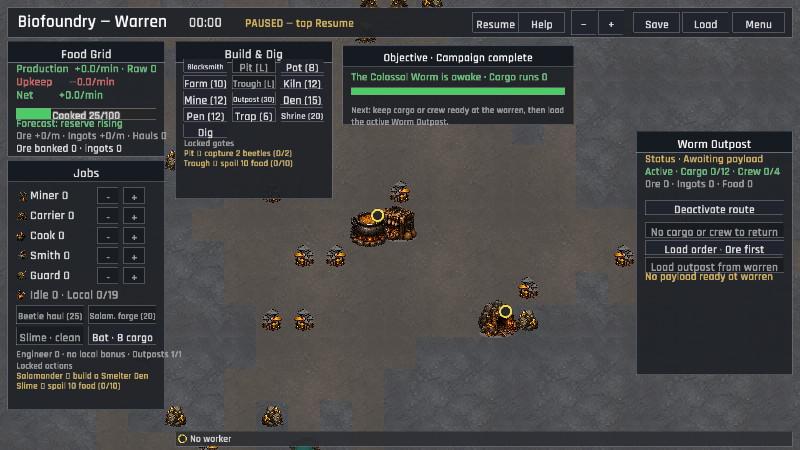
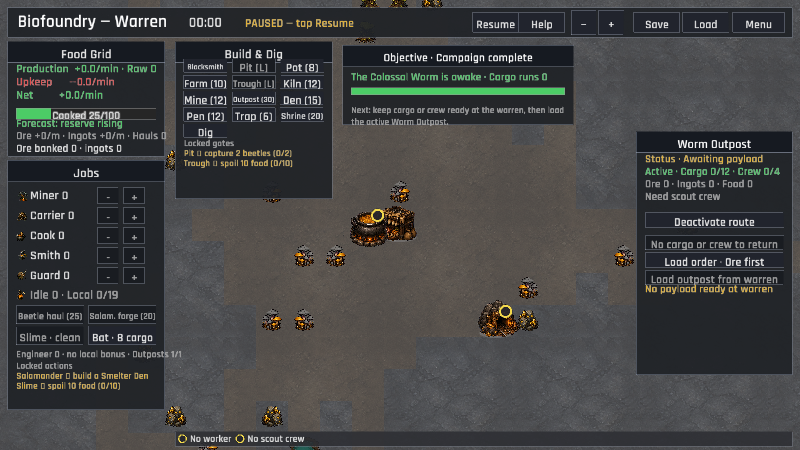
The scouts call for hands at the empty outpost (Outpost crew legibility, post-campaign)
Awakened active Outposts now expose their no-crew state on the map and in the compact status legend. Keep the inspection card's broad payload readiness status while adding a fitting Need scout crew detail, with focused UI coverage and a refreshed empty-route capture.

Changed region(s): [[0.7812, 0.4044, 1.0, 0.6533], [0.2812, 0.9644, 0.375, 0.9956]]

diff --git a/src/ui/legibility.rs b/src/ui/legibility.rs
@@ -50,6 +50,8 @@ pub enum BuildingStatus {
     AwaitingHaul,
     /// A remote route that is turned off and needs activation before use.
     RouteInactive,
+    /// An awakened remote route with no crew stationed to scout.
+    ExpeditionNoCrew,
     /// An awakened remote route whose scouting has been paused by the player.
     ExpeditionPaused,
     /// A staffed remote route that needs more cooked food before scouting.
@@ -76,6 +78,7 @@ impl BuildingStatus {
             BuildingStatus::Exhausted => "Exhausted",
             BuildingStatus::AwaitingHaul => "Awaiting haul",
             BuildingStatus::RouteInactive => "Route inactive",
+            BuildingStatus::ExpeditionNoCrew => "No scout crew",
             BuildingStatus::ExpeditionPaused => "Scouting paused",
             BuildingStatus::ExpeditionNeedsFood => "Scout food low",
             BuildingStatus::ExpeditionHoldFull => "Outpost full",
@@ -192,6 +195,9 @@ pub fn building_status(
                 crate::simulation::outposts::ExpeditionState::Paused => {
                     Some(BuildingStatus::ExpeditionPaused)
                 }
+                crate::simulation::outposts::ExpeditionState::NoCrew => {
+                    Some(BuildingStatus::ExpeditionNoCrew)
+                }
                 crate::simulation::outposts::ExpeditionState::NeedsFood { .. } => {
                     Some(BuildingStatus::ExpeditionNeedsFood)
                 }
@@ -199,7 +205,6 @@ pub fn building_status(
                     Some(BuildingStatus::ExpeditionHoldFull)
                 }
                 crate::simulation::outposts::ExpeditionState::Inactive
-                | crate::simulation::outposts::ExpeditionState::NoCrew
                 | crate::simulation::outposts::ExpeditionState::Scouting { .. } => None,
             }
         }

diff --git a/src/ui/warren.rs b/src/ui/warren.rs
@@ -137,6 +137,7 @@ fn draw_status_badge(pos: TilePos, ts: f32, status: crate::ui::legibility::Build
         St::Exhausted => Color::new(0.60, 0.60, 0.66, 1.0),
         St::AwaitingHaul => Color::new(0.40, 0.80, 0.92, 1.0),
         St::RouteInactive => Color::new(0.70, 0.62, 0.85, 1.0),
+        St::ExpeditionNoCrew => Color::new(0.95, 0.85, 0.30, 1.0),
         St::ExpeditionPaused => Color::new(0.95, 0.72, 0.35, 1.0),
         St::ExpeditionNeedsFood => Color::new(0.95, 0.55, 0.20, 1.0),
         St::ExpeditionHoldFull => Color::new(0.92, 0.32, 0.26, 1.0),
@@ -196,6 +197,9 @@ pub(super) fn draw_status_glyph(
             draw_circle_lines(bx, by, s, 2.0, color);
             draw_line(bx - s, by + s, bx + s, by - s, 2.0, color);
         }
+        // No scout crew: an empty ring, with route-specific wording in the
+        // legend and inspection card.
+        St::ExpeditionNoCrew => draw_circle_lines(bx, by, s, 2.0, color),
         // Expedition paused: two vertical bars, matching the touch control.
         St::ExpeditionPaused => {
             draw_line(bx - s * 0.35, by - s, bx - s * 0.35, by + s, 2.0, color);

diff --git a/src/ui/hud/inspect/tests.rs b/src/ui/hud/inspect/tests.rs
@@ -213,6 +213,28 @@ fn active_empty_outpost_reports_whether_payload_is_ready() {
 }
 
 #[test]
+fn empty_awakened_outpost_explains_the_missing_scout_crew() {
+    let data = GameData::load().expect("embedded game data");
+    let mut session = GameSession::new(&data, 13);
+    let pos = session
+        .world
+        .tiles
+        .iter_with_pos()
+        .find(|(pos, _)| session.can_place_building(*pos))
+        .map(|(pos, _)| pos)
+        .expect("a walkable outpost location");
+    session.buildings.push(Building::new("outpost", pos));
+    session.ensure_outpost(pos);
+    session.outposts[0].active = true;
+    session.worm_awake = true;
+
+    assert_eq!(
+        outpost_expedition_hint(&data, &session.outposts[0]).as_deref(),
+        Some("Need scout crew")
+    );
+}
+
+#[test]
 fn active_loaded_outpost_reports_payload_ready() {
     let data = GameData::load().expect("embedded game data");
     let mut session = GameSession::new(&data, 15);

diff --git a/src/ui/legibility/tests.rs b/src/ui/legibility/tests.rs
@@ -237,6 +237,28 @@ fn paused_outpost_keeps_a_distinct_map_status() {
 }
 
 #[test]
+fn empty_awakened_outpost_exposes_missing_scout_crew_on_the_map() {
+    let (data, mut session) = boot();
+    session.worm_awake = true;
+    let pos = session
+        .world
+        .tiles
+        .iter_with_pos()
+        .find(|(p, t)| t.walkable() && session.can_place_building(*p))
+        .map(|(p, _)| p)
+        .unwrap();
+    session.buildings.push(Building::new("outpost", pos));
+    session.ensure_outpost(pos);
+    session.outposts[0].active = true;
+
+    assert_eq!(
+        building_status(&session, &data, session.building_at(pos).unwrap()),
+        Some(BuildingStatus::ExpeditionNoCrew)
+    );
+    assert_eq!(BuildingStatus::ExpeditionNoCrew.label(), "No scout crew");
+}
+
+#[test]
 fn staffed_outpost_exposes_food_and_hold_blockers_on_the_map() {
     let (data, mut session) = boot();
     session.worm_awake = true;

diff --git a/src/ui/hud/inspect/status.rs b/src/ui/hud/inspect/status.rs
@@ -98,8 +98,8 @@ pub(super) fn outpost_load_hint(
 
 pub(super) fn outpost_expedition_hint(data: &GameData, outpost: &Outpost) -> Option<String> {
     match crate::simulation::outposts::expedition_state(outpost, data) {
-        crate::simulation::outposts::ExpeditionState::Inactive
-        | crate::simulation::outposts::ExpeditionState::NoCrew => None,
+        crate::simulation::outposts::ExpeditionState::Inactive => None,
+        crate::simulation::outposts::ExpeditionState::NoCrew => Some("Need scout crew".to_owned()),
         crate::simulation::outposts::ExpeditionState::Paused => {
             Some("Expedition paused · player paused".to_owned())
         }

diff --git a/src/ui/hud/overlays.rs b/src/ui/hud/overlays.rs
@@ -281,6 +281,7 @@ pub(super) fn draw_status_legend(session: &GameSession, data: &GameData) {
         (St::AwaitingHaul, Color::new(0.40, 0.80, 0.92, 1.0)),
         (St::Exhausted, Color::new(0.60, 0.60, 0.66, 1.0)),
         (St::RouteInactive, Color::new(0.70, 0.62, 0.85, 1.0)),
+        (St::ExpeditionNoCrew, Color::new(0.95, 0.85, 0.30, 1.0)),
         (St::ExpeditionPaused, Color::new(0.95, 0.72, 0.35, 1.0)),
         (St::ExpeditionNeedsFood, Color::new(0.95, 0.55, 0.20, 1.0)),
         (St::ExpeditionHoldFull, Color::new(0.92, 0.32, 0.26, 1.0)),
